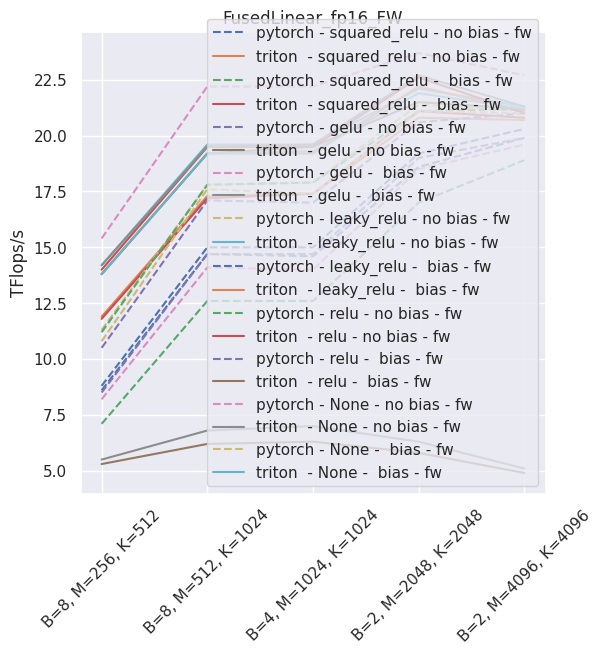
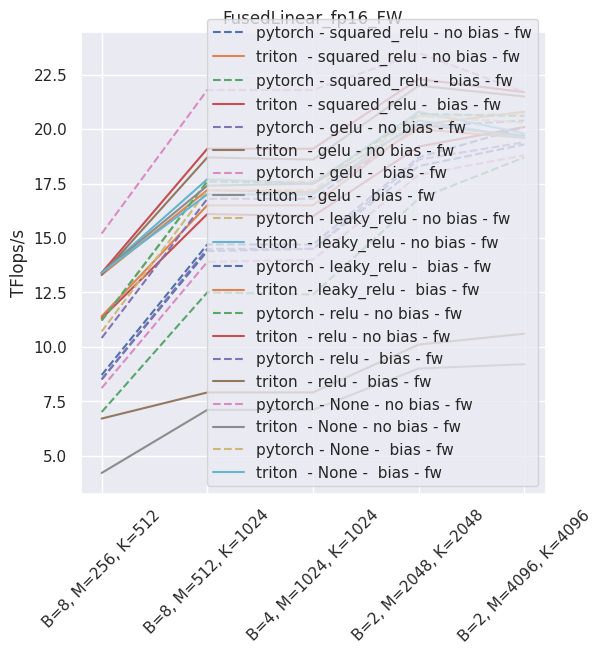
Testing out many ideas, not all successful

diff --git a/xformers/triton/k_fused_matmul.py b/xformers/triton/k_fused_matmul.py
@@ -43,9 +43,9 @@ def kernel_fma(
     # The stride variables represent how much to increase the ptr by when moving by 1
     # element in a particular dimension. E.g. stride_am is how much to increase a_ptr
     # by to get the element one row down (A has M rows)
-    stride_dm, stride_am,
+    stride_m,
+    stride_om,
     stride_wn, stride_wk,
-    stride_im,
     # Meta-parameters
     **META,
 ):
@@ -90,16 +90,16 @@ def kernel_fma(
     # for rows (resp. col) of C
     rm = pid_m * BLOCK_M + tl.arange(0, BLOCK_M)
     rn = pid_n * BLOCK_N + tl.arange(0, BLOCK_N)
-
-    # rk denotes a range of indices for columns
-    # (resp. rows) of A (resp. B)
     rk = tl.arange(0, BLOCK_K)
 
     # the memory addresses of elements in the first block of
     # A and W can be computed using numpy-style broadcasting
-    D += rm[:, None] * stride_dm + rn[None, :]
-    A += rm[:, None] * stride_am + rk[None, :]
-    W += rn[None, :] * stride_wn + rk[:, None] * stride_wk
+    a_ptrs = A + rm[:, None] * stride_m + rk[None, :]
+    w_ptrs = W + rn[None, :] * stride_wn + rk[:, None] * stride_wk
+
+    mask_mk = (rm[:, None] < M) & (rk[None, :] < K)
+    mask_kn = (rk[:, None] < K) & (rn[None, :] < N)
+    mask_mn = (rm[:, None] < M) & (rn[None, :] < N)
 
     # initialize and iteratively update accumulator
     acc = tl.zeros((BLOCK_M, BLOCK_N), dtype=tl.float32)
@@ -111,31 +111,32 @@ def kernel_fma(
     for _ in range(K, 0, -BLOCK_K):
         # load then increment pointers so that the next blocks of A and B
         # are loaded during the next iteration
-        a = tl.load(A, mask=(rm[:, None] < M) & (rk[None, :] < K))
-        A += BLOCK_K
+        a = tl.load(a_ptrs, mask=mask_mk, other=0.0)
+        a_ptrs += BLOCK_K
 
-        w = tl.load(W, mask=(rn[None, :] < N) & (rk[:, None] < K))
-        W += BLOCK_K * stride_wk
+        w = tl.load(w_ptrs, mask=mask_kn, other=0.0)
+        w_ptrs += BLOCK_K * stride_wk
 
         # block level matrix multiplication
         acc += tl.dot(a, w)
 
     # optional: save the activation inputs
     if META["SAVE_ACT_INPUTS"]:
-        In += rm[:, None] * stride_im + rn[None, :]
-        tl.store(In, acc, mask=(rm[:, None] < M) & (rn[None, :] < N))
+        In += rm[:, None] * stride_om + rn[None, :]
+        tl.store(In, acc, mask=mask_mn)
 
     # optional: fused activation (while the data is in shared memory)
     if META["ACTIVATION"]:
         acc = META["ACTIVATION"](acc)
 
     # write back result
-    tl.store(D, acc, mask=(rm[:, None] < M) & (rn[None, :] < N))
+    d_ptrs = D + rm[:, None] * stride_om + rn[None, :]
+    tl.store(d_ptrs, acc, mask=mask_mn)
 
 
 def _sanitize_inputs(x, weight, bias):
     assert (
-        x.shape[1] == weight.shape[1]
+        x.shape[-1] == weight.shape[1]
     ), f"Incompatible dimensions in between inputs and weight, {x.shape} - {weight.shape}"
     assert bias is None or bias.is_contiguous()
     assert (
@@ -174,6 +175,8 @@ def fused_matmul(
             triton.cdiv(M, META["BLOCK_M"]) * triton.cdiv(N, META["BLOCK_N"]),
         )
 
+    assert outputs.stride(0) == act_inputs.stride(0), f"{outputs.stride()} - {act_inputs.stride()}"
+
     # fmt: off
     kernel_fma[grid](
         # data ptrs
@@ -183,10 +186,8 @@ def fused_matmul(
         # shapes
         M, N, K,
         # strides
-        outputs.stride(0),
-        x_.stride(0),
+        x_.stride(0), outputs.stride(0),
         weight.stride(0), weight.stride(1),
-        act_inputs.stride(0),
         # optional fused activation
         ACTIVATION=activation,
         # optional fused bias
@@ -200,7 +201,7 @@ def fused_matmul(
     # fmt: on
 
     if x.ndim == 3:
-        outputs = outputs.reshape(x.shape[0], x.shape[1], N)
+        outputs = outputs.reshape((x.shape[0], x.shape[1], -1))
 
     return (outputs, act_inputs) if save_inputs else (outputs, None)
 
@@ -228,9 +229,9 @@ def kernel_grad_inputs(
     # Tensor dimensions
     M, N, K,
     # strides for all the gradients
-    stride_gim, stride_gam, stride_gom,
+    stride_m, stride_im,
     # strides for the extra data
-    stride_aim, stride_wn, stride_wk,
+    stride_wn, stride_wk,
     # Meta-parameters
     **META,
 ):
@@ -279,10 +280,9 @@ def kernel_grad_inputs(
     rn = tl.arange(0, BLOCK_N)
 
     # memory blocks can be computed using numpy-style broadcasting
-    grad_out_ptrs = GRAD_OUT + rm[:, None] * stride_gom + rn[None, :]
-    grad_act_ptrs = GRAD_ACT + rm[:, None] * stride_gam + rn[None, :]
-    act_in_ptrs = ACT_IN + rm[:, None] * stride_aim + rn[None, :]
-    grad_in_ptrs = GRAD_IN + rm[:, None] * stride_gim + rk[None, :]
+    grad_out_ptrs = GRAD_OUT + rm[:, None] * stride_m + rn[None, :]
+    grad_act_ptrs = GRAD_ACT + rm[:, None] * stride_m + rn[None, :]
+    act_in_ptrs = ACT_IN + rm[:, None] * stride_im + rn[None, :]
     w_ptrs = WEIGHT + rn[:, None] * stride_wn + rk[None, :] * stride_wk
 
     # initialize and iteratively update accumulator
@@ -290,19 +290,21 @@ def kernel_grad_inputs(
     act_grad_fn = META["ACTIVATION_GRAD"]
 
     mask_mk = (rm[:, None] < M) & (rk[None, :] < K)
+    mask_mn = (rm[:, None] < M) & (rn[None, :] < N)
+    mask_nk = (rn[:, None] < N) & (rk[None, :] < K)
 
     for _ in range(N, 0, -BLOCK_N):
-        grad_out = tl.load(grad_out_ptrs)
+        grad_out = tl.load(grad_out_ptrs, mask=mask_mn, other=0.0)
         grad_out_ptrs += BLOCK_N
 
-        w = tl.load(w_ptrs)
+        w = tl.load(w_ptrs, mask=mask_nk, other=0.0)
         w_ptrs += BLOCK_N * stride_wn
 
         # optional fused activation gradient (while the data is in shared memory)
         if META["ACTIVATION_GRAD"]:
             if META["ACTIVATION_GRAD_REQ_INPUTS"]:
                 # This activation requires its inputs
-                act_input = tl.load(act_in_ptrs)
+                act_input = tl.load(act_in_ptrs, mask=mask_mn, other=0.0)
                 act_in_ptrs += BLOCK_N
 
                 grad_act = act_grad_fn(act_input)
@@ -323,6 +325,7 @@ def kernel_grad_inputs(
 
     # write back result
     # automatic type promotion/downgrade
+    grad_in_ptrs = GRAD_IN + rm[:, None] * stride_im + rk[None, :]
     tl.store(grad_in_ptrs, grad_in_acc, mask=mask_mk)
 
 
@@ -343,19 +346,19 @@ def fused_matmul_backward(
     .. note: The weight buffer is transposed on the fly
     """
 
-    grad_out = grad_out.flatten(0, 1) if grad_out.ndim == 3 else grad_out
-    if grad_out.stride(1) != 1:
-        grad_out.contiguous()
+    grad_out_ = grad_out.flatten(0, 1) if grad_out.ndim == 3 else grad_out
+    if grad_out_.stride(-1) != 1:
+        grad_out_.contiguous()
 
     assert (
-        grad_out.shape[1] == weight.shape[0]
+        grad_out_.shape[-1] == weight.shape[0]
     ), "Incompatible dimensions in between grad_out and weight"
 
-    M, N = grad_out.shape
+    M, N = grad_out_.shape
     N, K = weight.shape
 
     grad_in = torch.empty((M, K), device=grad_out.device, dtype=grad_out.dtype)
-    grad_act = torch.empty_like(grad_out)
+    grad_act = torch.empty_like(grad_out_)
     activation_inputs = grad_out if activation_inputs is None else activation_inputs
 
     def grid(META):
@@ -363,18 +366,20 @@ def fused_matmul_backward(
             triton.cdiv(M, META["BLOCK_M"]) * triton.cdiv(K, META["BLOCK_K"]),
         )
 
+    assert grad_out_.stride(0) == grad_act.stride(0) and grad_out_.stride(1) == grad_act.stride(1)
+
     # Compute the gradient for the inputs + partial reduction for grad bias
     # fmt: off
     # (M, K) <- (M, N) x (N, K)
     kernel_grad_inputs[grid](
         # data ptrs
-        grad_in, grad_act, grad_out,
+        grad_in, grad_act, grad_out_,
         activation_inputs, weight,
         # shapes
         M, N, K,
         # strides
-        grad_in.stride(0), grad_act.stride(0), grad_out.stride(0),
-        activation_inputs.stride(0), weight.stride(0), weight.stride(1),
+        grad_out_.stride(0), grad_in.stride(0),
+        weight.stride(0), weight.stride(1),
         # optional fused activation
         ACTIVATION_GRAD=activation_grad,
         GROUP_M=8,  # L2 data reuse optimization
@@ -386,8 +391,13 @@ def fused_matmul_backward(
     # fmt: on
 
     grad_bias = torch.sum(grad_act, dim=0) if trainable_bias else None
-    inputs_ = inputs.flatten(0, 1) if inputs.ndim == 3 else inputs
-    grad_weight = triton.ops.matmul(grad_act.transpose(0, 1), inputs_) if trainable_weight else None
+
+    if trainable_weight:
+        inputs_ = inputs.flatten(0, 1) if inputs.ndim == 3 else inputs
+        grad_weight = triton.ops.matmul(grad_act.transpose(0, 1), inputs_)
+        del inputs_
+    else:
+        grad_weight = None
 
     del grad_act
 

diff --git a/xformers/benchmarks/utils.py b/xformers/benchmarks/utils.py
@@ -69,8 +69,8 @@ def pretty_plot(results, title, units: str, filename=None, dash_key=""):
 
     # Make sure that the plot is big enough
     f = plt.figure()
-    f.set_figwidth(6)
-    f.set_figheight(6)
+    f.set_figwidth(10)
+    f.set_figheight(10)
 
     # Display the collections
     for k, v in workloads.items():
